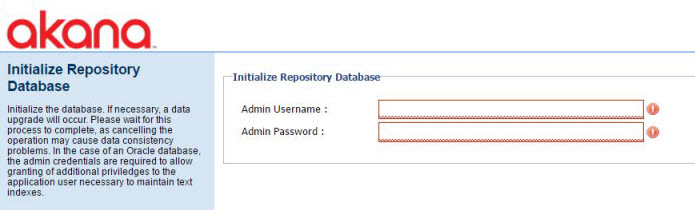
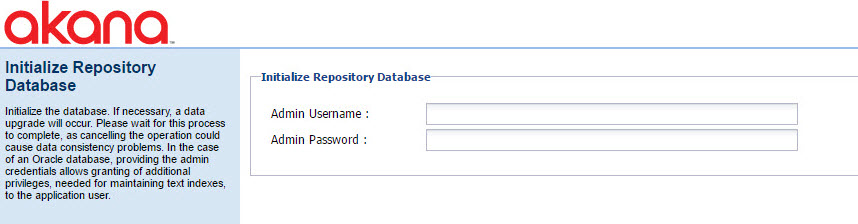
INFRA-2403

Changed region(s): [[0.0, 0.0, 1.0, 1.0], [0.4835, 0.4571, 0.9669, 0.6857]]

diff --git a/lm/install/install_lm_v80x.htm b/lm/install/install_lm_v80x.htm
@@ -1,16 +1,17 @@
 ---
 layout: page
-title: Installing Lifecycle Manager 8.0
-description: Learn how to install Lifecycle Manager 8.0.
+title: Installing Lifecycle Manager 8.0.x
+description: Learn how to install Lifecycle Manager 8.0.x.
 product: lm
 category: gs
 weight: 10
 type: page
 nav-title: Lifecycle Manager Installation
 ---
-<h2><a name="top"></a>Installing Lifecycle Manager 8.0</h2>
-<p>This document provides reference information and examples relating to installation and configuration of Lifecycle Manager version 8.0 with the Akana Platform.</p>
+<h2><a name="top"></a>Installing Lifecycle Manager 8.0.x</h2>
+<p>This document provides reference information and examples relating to installation and configuration of Lifecycle Manager version 8.0.x with the Akana Platform.</p>
 <p><strong>Note</strong>: This document provides the steps you need for a fresh install. If you're upgrading from a previous version of Lifecycle Manager, you'll need to refer to the upgrade documentation on the Akana Support site: <a href="https://library.akana.com/display/MAIN/Lifecycle+Manager" title="Akana Support site" target="_blank">https://library.akana.com/display/MAIN/Lifecycle+Manager</a>.</p>
+
 <h5 class="stamp">Required Akana Platform version: 8.2.3</h5>
 
 
@@ -30,9 +31,9 @@ nav-title: Lifecycle Manager Installation
   <li><a href="#03_lm_container">Step 3: Run Configurator to configure Lifecycle Manager container</a></li>
   <li><a href="#04_start_lm_instance">Step 4: Start the Lifecycle Manager instance</a></li>
   <li><a href="#05_lm_install">Step 5: Install and configure the Akana Lifecycle Manager Application feature</a></li>
-  <li><a href="#07_extract_client_zips">Step 6: Extract javaclients.zip file and specify the URL in the configuration settings</a></li>
-  <li><a href="#08_lm_config">Step 7: Update the Lifecycle Manager configuration settings</a></li>
-  <li><a href="#09_lm_create_library">Step 8: Create a Lifecycle Manager Library</a></li>
+  <li><a href="#06_extract_client_zips">Step 6: Extract javaclients.zip file and specify the URL in the configuration settings</a></li>
+  <li><a href="#07_lm_config">Step 7: Update the Lifecycle Manager configuration settings</a></li>
+  <li><a href="#08_lm_create_library">Step 8: Create a Lifecycle Manager Library</a></li>
 </ol>
 
 
@@ -42,10 +43,11 @@ nav-title: Lifecycle Manager Installation
 
 
 <ol class="table_of_contents">
+  <li><a href="#lm_databases_supported">Supported databases</a></li>
+  <li><a href="#database_drivers">Database drivers</a></li>
   <li><a href="#properties_file_creating">Creating the LM properties file for silent install</a></li>
   <li><a href="#creating_container_silent">Creating a container using silent install</a></li>
   <li><a href="#create_asset_library">Creating an asset library</a></li>
-  <li><a href="#database_drivers">Database drivers</a></li>
   <li><a href="#related_topics">Related Topics</a></li>
 </ol>
 
@@ -61,26 +63,7 @@ nav-title: Lifecycle Manager Installation
 <a name="lm_install_overview"></a><h3>Overview</h3>
 <p>You can install Lifecycle Manager in a single OSGi container.</p>
 <p>You'll need to first install the Akana Platform, which provides the underlying infrastructure for Lifecycle Manager, and then install Lifecycle Manager itself.</p>
-
-<h5>Supported databases:</h5>
-<ul>
-  <li><strong>Microsoft SQL Server 2012 and 2014</strong></li>
-  <li><strong>Oracle 11g, 12c</strong>&#8212;If you are using Oracle, your installation must include the following required features and details:
-    <ul>
-      <li>XMLDB and TEXT</li>
-      <li>LEXER, STOPLIST and WORDLIST for the default language installed (for more information, refer to the <a href="{{ site.baseurl }}/lm/SysAdmin-OSGi.html" title="Lifecycle Manager System Administrator Guide" target="_blank">Lifecycle Manager System Administrator Guide</a>)</li>
-      <li>CTX grants (for more information, refer to the <a href="{{ site.baseurl }}/lm/SysAdmin-OSGi.html" title="Lifecycle Manager System Administrator Guide" target="_blank">Lifecycle Manager System Administrator Guide</a>)</li>
-    </ul>
-  <p>In addition, depending on the Oracle version and Patch Set Update (PSU), there might be additional interim patch requirements:</p>
-    <ul>
-<li><strong>Oracle 11.2.0.3.x</strong> requires the following patches: <strong>16191663</strong> and <strong>18615607</strong>.</li>
-<li><strong>Oracle 11.2.0.4.x</strong> requires this patch: <strong>18615607</strong>.</li>
-<li><strong>Oracle 12c</strong> requires PSU <strong>12.1.0.2.0</strong> or greater.
-<p>If you are using Oracle, AL32UTF8 with BYTE length semantics is recommended.</p></li>
-      </ul>
-  </li>
-</ul>
-<p><strong>Note</strong>: Depending on the type and version of the database you're using, you might also need to place the database driver in the correct location as part of <a href="#05_lm_install">Step 5: Install and configure the Akana Lifecycle Manager Application Feature</a>. See <a href="#database_drivers">Database drivers</a>.</p>
+<p>For database version information, see <a href="#lm_databases_supported">Supported databases</a>.</p>
 <p><a href="#top">Back to top</a></p>
 
 
@@ -130,9 +113,9 @@ nav-title: Lifecycle Manager Installation
 <ol>
   <li>Log in to the Akana Library (<a href="https://library.akana.com/display/MAIN/Akana+Library" target="_blank">https://library.akana.com/display/MAIN/Akana+Library</a>.</li>
   <li>On the left, click <strong>Downloads</strong> &gt; <strong>Lifecycle Manager</strong>.</li>
-  <li>On the right, click <strong>LM 8.0</strong>.</li>
+  <li>On the right, click <strong>LM 8.0</strong> or, if there's an updated version, click through to the latest 8.0.x version available.</li>
   <li>Click <strong>Server</strong>.</li>
-  <li>Download the <strong>lifecyclemanager_8.0.0.00339.zip</strong> file.</li>
+  <li>Download the latest ZIP file. The file name will be in the pattern <strong>lifecyclemanager_8.0.x.x.zip</strong>; for example, <strong>lifecyclemanager_8.0.0.00339.zip</strong>.</li>
 </ol>
 
 <a name="proc_download_java_clients"></a><h5>To download the Java Clients file</h5>
@@ -144,7 +127,6 @@ nav-title: Lifecycle Manager Installation
   <li>Click <strong>clients</strong>.</li>
   <li>Download the <strong>javaclients_8.0.0.00339.zip</strong> file.</li>
 </ol>
-
 <p><a href="#top">Back to top</a></p>
 
 
@@ -156,7 +138,7 @@ nav-title: Lifecycle Manager Installation
   <li><a href="#install_lm">Lifecycle Manager</a></li>
 </ol>
 <p><strong>Note</strong>: The sequence is very important.</p>
-<p>The javaclients file is unzipped and installed later, in <a href="#07_extract_client_zips">Step 6</a>.</p>
+<p>The javaclients file is unzipped and installed later, in <a href="#06_extract_client_zips">Step 6</a>.</p>
 
 
 <a name="install_platform"></a><h5>To install the Akana Platform files</h5>
@@ -169,7 +151,7 @@ nav-title: Lifecycle Manager Installation
 <p>Extract the Lifecycle Manager ZIP file to your installation folder.</p>
 <p>After installation, the directory structure will look similar to the following:</p>
 <p><img src="images/lm_install_02_01_install_folders.png" alt="Installation folder structure" /></p>
-<p>For information about the folders and folder contents, see <a href="{{ site.baseurl }}/sp/platform_install/installing_akana_api_platform_v82.htm#installation_folder_structure">Installation folder structure</a>.</p>
+<p>For information about the folders and folder contents, see <a href="http://docs.akana.com/sp/platform_install/installing_akana_api_platform_v82.htm#installation_folder_structure">Installation folder structure</a>.</p>
 <p><a href="#top">Back to top</a></p>
 
 
@@ -179,7 +161,7 @@ nav-title: Lifecycle Manager Installation
 <p>You can configure a Lifecycle Manager container using either GUI or silent install options.</p>
 <p><strong>GUI installation</strong>: follow this step in the Akana API Platform install instructions:</p>
 <ul>
-  <li><a href="{{ site.baseurl }}/sp/platform_install/installing_akana_api_platform_v82.htm#run_configurator_pm">Step 3: Run Configurator to create the first container</a> (separate file)</li>
+  <li><a href="http://docs.akana.com/sp/platform_install/installing_akana_api_platform_v82.htm#run_configurator_pm">Step 3: Run Configurator to create the first container</a> (separate file)</li>
   </ul>
 <p><strong>Silent mode</strong>: follow these steps (later in this document):</p>
 <ul>
@@ -193,7 +175,6 @@ nav-title: Lifecycle Manager Installation
 
 <a name="04_start_lm_instance"></a><h3>Step 4: Start the Lifecycle Manager instance</h3>
 <p>The next step is to start the instance.</p>
-<!--<p>{<span class="apidoc_red">Note: add info here re running as a Windows service, when it works. Applicable location, wherever that is, anyway, for including info re registering the container as a Windows service. 1/16/17 it doesn't currently work so not adding this for the moment.</span>}</p>-->
 <h5>To start the instance</h5>
 <ol>
   <li>Go to the /bin folder for your Lifecycle Manager container. For example:
@@ -216,7 +197,7 @@ nav-title: Lifecycle Manager Installation
 <p><strong>Note</strong>: Before configuring the database, make sure you have the applicable database driver in place. See <a href="#database_drivers">Database drivers</a>.</p>
 
 <h5>To install the Lifecycle Manager feature on a container</h5>
-<p><strong>Note</strong>: This procedure is along the lines of the standard Akana API Platform instructions, <a href="{{ site.baseurl }}/sp/platform_install/installing_akana_api_platform_v82.htm#install_pm">Step 5: Install Policy Manager features on the container</a>, with differences for Lifecycle Manager.</p>
+<p><strong>Note</strong>: This procedure is along the lines of the standard Akana API Platform instructions, <a href="http://docs.akana.com/sp/platform_install/installing_akana_api_platform_v82.htm#install_pm">Step 5: Install Policy Manager features on the container</a>, with differences for Lifecycle Manager.</p>
 <ol>
   <li>Log in to the <strong>Akana Administration Console</strong>, using the Admin username and password you specified in <a href="#03_lm_container">Step 3: Run Configurator to configure Lifecycle Manager container</a>. The URL is composed like this: <strong>{protocol}://{hostname}:{port}:/admin</strong>.
     <p>For example: <strong>http://lm.acmepaymentscorp.com:9900/admin</strong></p></li>
@@ -240,7 +221,7 @@ nav-title: Lifecycle Manager Installation
 
 <a name="proc_lm_configure"></a><h5>To configure the Lifecycle Manager feature on a container</h5>
 
-<p><strong>Note</strong>: This procedure is along the lines of the standard Akana API Platform instructions, <a href="{{ site.baseurl }}/sp/platform_install/installing_akana_api_platform_v82.htm#configure_pm">Step 7: Configure container features</a>, with differences for Lifecycle Manager.</p>
+<p><strong>Note</strong>: This procedure is along the lines of the standard Akana API Platform instructions, <a href="http://docs.akana.com/sp/platform_install/installing_akana_api_platform_v82.htm#configure_pm">Step 7: Configure container features</a>, with differences for Lifecycle Manager.</p>
 <ol>
   <li>At the <strong>Configure Database Options Wizard</strong>, specify your database and other values. Since this is the first container, select <strong>Create new database</strong> (for subsequent containers, you'll use the same database, so you'd select <strong>Use existing database</strong>). An example is shown below.
     <p><img src="images/lm_install_05_01_database_options.jpg" alt="Specify Database Options wizard" /></p>
@@ -253,11 +234,13 @@ nav-title: Lifecycle Manager Installation
     </li>
   <li>At the <strong>Schema Management Successful</strong> summary page, close the wizard.</li>
   <li>Select the next configuration action, <strong>Initialize Repository Database</strong>. The <strong>Initialize Repository Database</strong> wizard appears, as shown below.
-  <p><img src="images/lm_install_05_03_initialize_repository_database.jpg" width="695" height="210" alt="Initialize Repository Databse" /></p>
+    <p><img src="images/lm_install_05_03_initialize_repository_database.jpg" alt="Initialize Repository Databse" /></p>
+    <p><strong>Note</strong>: If you're not using an Oracle database, the admin username and password fields are not on this page. Click <strong>Finish</strong> to complete the initialization task.</p>
   </li>
-  <li>Follow the on-screen instructions, making sure you provide the correct administrator credentials for the target database that you set up in the database configuration step earlier (see <a href="#proc_lm_configure">To configure the Lifecycle Manager feature on a container</a>, Step 1).</li>
+  <li><a name="oracle_admin_cred"></a><strong>Oracle database only</strong>: Follow the on-screen instructions. Entering the administrator credentials is optional, but if you do enter them, make sure you enter the correct credentials for the target database that you set up in the database configuration step earlier (see <a href="#proc_lm_configure">To configure the Lifecycle Manager feature on a container</a>, Step 1).
+    <p><strong>Note</strong>: This step is optional, but if you're using an Oracle database and don't set up administrator credentials, the DBA will need to perform additional grants (see <a href="#oracle_ctx_grants">Supported Database section, Oracle, CTX Grants</a>) before creating the library (see <a href="#08_lm_create_library">Step 8: Create a Lifecycle Manager Library</a>).</p></li>
   <li>At the summary, as shown below, click <strong>Finish</strong>.
-  <p><img src="images/lm_install_05_04_initialize_repository_summary.jpg" alt="Initialize repository" /></p></li>
+    <p><img src="images/lm_install_05_04_initialize_repository_summary.jpg" alt="Initialize repository" /></p></li>
 </ol>
 <p>That completes the basic installation and configuration of Lifecycle Manager.</p>
 <p><a name="note_mssql_01"></a><strong>Note: MSSQL database only</strong>:</p>
@@ -270,7 +253,7 @@ ALTER DATABASE {db.instance.name}
 
 
 
-<a name="07_extract_client_zips"></a><h3>Step 6: Extract javaclients.zip file and specify the URL in the configuration settings</h3>
+<a name="06_extract_client_zips"></a><h3>Step 6: Extract javaclients.zip file and specify the URL in the configuration settings</h3>
 <p>To make the Java clients available on the <strong>Download Center</strong> pages for all Lifecycle Manager libraries on the server, there are two steps:</p>
 <ol>
   <li>Extract the<strong> javaclients.zip</strong> file to a common directory of your choice, on an HTTP server of your choice that will be accessible to the platform.</li>
@@ -292,7 +275,7 @@ ALTER DATABASE {db.instance.name}
 
 
 
-<a name="08_lm_config"></a><h3>Step 7: Update the Lifecycle Manager configuration settings</h3>
+<a name="07_lm_config"></a><h3>Step 7: Update the Lifecycle Manager configuration settings</h3>
 <p>When the Lifecycle Manager feature is successfully installed, the Lifecycle Manager super-user can configure specific settings, such as hostname and admin users, for your implementation.</p>
 <p>There are two steps:</p>
 <ol>
@@ -328,7 +311,7 @@ ALTER DATABASE {db.instance.name}
     </li>
   <li>In the <strong>General Settings</strong> page, add or change the following settings:
     <ul>
-      <li>Make sure the <strong>Use SSL</strong> checkbox is cleared. You'll complete separate steps later to manually configure the instance with SSL properties. For information on SSL configuration, refer to the <a href="{{ site.baseurl }}/lm/SysAdmin-OSGi.html" title="Lifecycle Manager System Administrator Guide" target="_blank">Lifecycle Manager System Administrator Guide</a>.</li>
+      <li>Make sure the <strong>Use SSL</strong> checkbox is cleared. You'll complete separate steps later to manually configure the instance with SSL properties. For information on SSL configuration, refer to the <a href="http://docs.akana.com/lm/SysAdmin-OSGi.html" title="Lifecycle Manager System Administrator Guide" target="_blank">Lifecycle Manager System Administrator Guide</a>.</li>
       <li>Specify <strong>Host</strong> (for example: lxc1-pm8x-23.local.acmepaymentscorp.com).</li>
       <li>Specify <strong>Port</strong> (for example, 9900).</li>
       <li><strong>Administration Users</strong>: A list of LDAP User IDs, separated by semi-colons. These are the users that have permission to access the Lifecycle Manager Admin Console (not the Akana Platform Admin Console). Specify one or more admin users, such as Technical Support personnel.</li>
@@ -380,7 +363,7 @@ ALTER DATABASE {db.instance.name}
 <p>As noted above (see <a href="#note_super_user">note</a>), once Admin users are set up and functional, for security reasons it's best to disable the super-user password setting.</p>
 
 <a name="ldap_group_membership"></a><h5>Establishing group membership in LDAP</h5>
-<p><strong>Note</strong>: for more information about Group and Role support, refer to <a href="{{ site.baseurl }}/lm/SysAdmin-OSGi.html#ldapgrouproles" title="Setting up Group and Role support in LDAP" target="_blank">Setting up Group and Role support in LDAP</a> (Lifecycle Manager System Administrator Guide).</p>
+<p><strong>Note</strong>: for more information about Group and Role support, refer to <a href="http://docs.akana.com/lm/SysAdmin-OSGi.html#ldapgrouproles" title="Setting up Group and Role support in LDAP" target="_blank">Setting up Group and Role support in LDAP</a> (Lifecycle Manager System Administrator Guide).</p>
 <p>There are two ways of establishing group membership in LDAP:</p>
 <ol>
   <li>As a <strong>Group</strong> object that lists all the members of that group. The example below shows an ldif of a Project Manager group. The name of the group is in the CN attribute, and the members are listed in the uniqueMember attributes (AD may use a different attribute for members; you'll need to verify with the customer LDAP admin):
@@ -413,8 +396,9 @@ Q==</pre></li>
 
 
 
-<a name="09_lm_create_library"></a><h3>Step 8: Create a Lifecycle Manager Library</h3>
+<a name="08_lm_create_library"></a><h3>Step 8: Create a Lifecycle Manager Library</h3>
 <p>Now it's time to test the LM install by creating a new Lifecycle Manager library.</p>
+<p><strong>Note</strong>: If you're using an Oracle database and didn't provide the Administrator credentials in <a href="#oracle_admin_cred">To configure the Lifecycle Manager feature on a container, Step 5</a>, the DBA must provide the required grants before you create the library. See <a href="#oracle_ctx_grants">Supported Database section, Oracle, CTX Grants</a>.</p>
 <h5>To create a new Lifecycle Manager library</h5>
 <ol>
   <li>Log in to the Akana Administration Console for Lifecycle Manager, using the previously designated installation administrator account, such as Technical Support. For example: <strong>http://www.acmepaymentscorp.com:9900/lm/admin/mainMenu.do</strong>.</li>
@@ -441,6 +425,54 @@ Q==</pre></li>
 
 <a name="h_install_tasks_reference_lm"></a><h3>LM Installation Tasks/Reference:</h3>
 
+
+
+
+<a name="lm_databases_supported"></a><h3>Supported databases</h3>
+<p>Lifecycle Manager version 8.0.x supports the following databases:</p>
+<ul>
+  <li><strong>Microsoft SQL Server 2012 and 2014</strong></li>
+  <li><strong>Oracle 11g, 12c</strong>&#8212;If you're using Oracle, your installation must include the following required features and details:
+    <ul>
+      <li>XMLDB and TEXT</li>
+      <li>LEXER, STOPLIST and WORDLIST for the default language installed (for more information, refer to the <a href="http://docs.akana.com/lm/SysAdmin-OSGi.html" title="Lifecycle Manager System Administrator Guide" target="_blank">Lifecycle Manager System Administrator Guide</a>)</li>
+      <li><a name="oracle_ctx_grants"></a>CTX grants (for more information, refer to the <a href="http://docs.akana.com/lm/SysAdmin-OSGi.html" title="Lifecycle Manager System Administrator Guide" target="_blank">Lifecycle Manager System Administrator Guide</a>)</li>
+    </ul>
+  <p>In addition, depending on the Oracle version and Patch Set Update (PSU), there might be additional interim patch requirements:</p>
+    <ul>
+<li><strong>Oracle 11.2.0.3.x</strong> requires the following patches: <strong>16191663</strong> and <strong>18615607</strong>.</li>
+<li><strong>Oracle 11.2.0.4.x</strong> requires this patch: <strong>18615607</strong>.</li>
+<li><strong>Oracle 12c</strong> requires PSU <strong>12.1.0.2.0</strong> or greater.
+<p>If you're using Oracle, AL32UTF8 with BYTE length semantics is recommended.</p></li>
+      </ul>
+  </li>
+</ul>
+<p><strong>Note</strong>: Depending on the type and version of the database you're using, you might also need to place the database driver in the correct location as part of <a href="#05_lm_install">Step 5: Install and configure the Akana Lifecycle Manager Application Feature</a>. See <a href="#database_drivers">Database drivers</a>.</p>
+<p><a href="#top">Back to top</a></p>
+
+
+
+<a name="database_drivers"></a><h3>Database drivers</h3>
+<p>Depending on which database server you're using, you might need to install a database driver before <span class="apidoc_p_subsequent">running the <strong>Configure Database Options</strong> Wizard</span>.</p>
+<p>If you need to install a database driver, place it in this location:</p>
+<ul>
+  <li> <strong>{installation}/instances/{containername}/deploy</strong> folder</li>
+</ul>
+<p>For example, for Oracle 12c, it might be:</p>
+<ul>
+  <li><strong>/akana/lm80/instances/lm/deploy/ojdbc7.jar</strong> (Downloadable from: <a href="http://www.oracle.com/technetwork/database/features/jdbc/jdbc-drivers-12c-download-1958347.html" title="download location for Oracle database driver" target="_blank">http://www.oracle.com/technetwork/database/features/jdbc/jdbc-drivers-12c-download-1958347.html</a>; requires accepting the agreement and logging in.)</li>
+</ul>
+<p>Database options, with driver information:</p>
+<ul>
+  <li><strong>Oracle 11g</strong>: install the appropriate driver; for example, <strong>Ojdbc6.jar</strong>, downloadable from <a href="http://www.java2s.com/Code/Jar/o/Downloadojdbc6jar.htm" title="download location for Oracle database driver" target="_blank">http://www.java2s.com/Code/Jar/o/Downloadojdbc6jar.htm</a>.
+<p><strong>Note</strong>: Oracle 11.2.0.x installations below the 11.2.0.4 PSU require the Oracle 11.1 JDBC (11.1.0.7) driver. If your Oracle installation is at or above the 11.2.0.4 PSU, you can use the JDBC driver from that specific version of Oracle.</p>
+  </li>
+  <li><strong>Oracle 12c</strong>: install the appropriate driver (typically ojdbc7.jar) that aligns with your Oracle 12c instance version.
+  <p>Also, for Oracle 12c, see <a href="#note_oracle_12c">note about database permissions needed</a>.</p></li>
+  <li><strong>Microsoft SQL Server</strong>: no database driver installation is required. The Akana Platform provides the required JTDS support for connecting to MS SQL.
+  <p><strong>Note</strong>: If you're using MSSQL, see additional information <a href="#note_mssql_01">to set read committed snapshot and enable snapshot isolation mode</a>.</p></li>
+</ul>
+<p><a href="#top">back to top</a></p>
 
 
 
@@ -487,7 +519,7 @@ default.port=9900</pre>
 <p>To create an asset library, follow the steps below.</p>
 <h5>To create an asset library</h5>
 <ol>
-  <li>Open one of the following URLs in a browser, depending on your setup. If you are using native LDAP mode and have not bootstrapped the setup according to the above instructions, use the super-user login page and the configured password {superuser.password}. Otherwise, use the installation administration login page and specify a valid LDAP user configured in {admin.users} with a valid password. URLs:
+  <li>Open one of the following URLs in a browser, depending on your setup. If you're using native LDAP mode and have not bootstrapped the setup according to the above instructions, use the super-user login page and the configured password {superuser.password}. Otherwise, use the installation administration login page and specify a valid LDAP user configured in {admin.users} with a valid password. URLs:
     <ul>
       <li>http://{web.server.url.host}/lm/admin (installation administration login page)</li>
       <li>http://{web.server.url.host}/lm/application/access/suLogin.do (super-user login page)</li>
@@ -518,7 +550,7 @@ default.port=9900</pre>
     </tr>
     <tr class="t1row">
       <td>Description</td>
-      <td>A brief description of the Asset Library. </td>
+      <td>A brief description of the Asset Library.</td>
     </tr>
     <tr class="t2row">
       <td>Sender Email</td>
@@ -543,32 +575,7 @@ default.port=9900</pre>
     </tr>
   </tbody>
 </table>
-<p>&nbsp;</p>
 <p><a href="#top">Back to top</a></p>
-
-
-
-<a name="database_drivers"></a><h3>Database drivers</h3>
-<p>Depending on which database server you're using, you might need to install a database driver before <span class="apidoc_p_subsequent">running the <strong>Configure Database Options</strong> Wizard</span>.</p>
-<p>If you need to install a database driver, place it in this location:</p>
-<ul>
-  <li> <strong>{installation}/instances/{containername}/deploy</strong> folder</li>
-</ul>
-<p>For example, for Oracle 12c, it might be:</p>
-<ul>
-  <li><strong>/akana/lm80/instances/lm/deploy/ojdbc7.jar</strong> (Downloadable from: <a href="http://www.oracle.com/technetwork/database/features/jdbc/jdbc-drivers-12c-download-1958347.html" title="download location for Oracle database driver" target="_blank">http://www.oracle.com/technetwork/database/features/jdbc/jdbc-drivers-12c-download-1958347.html</a>; requires accepting the agreement and logging in.)</li>
-</ul>
-<p>Database options, with driver information:</p>
-<ul>
-  <li><strong>Oracle 11g</strong>: install the appropriate driver; for example, <strong>Ojdbc6.jar</strong>, downloadable from <a href="http://www.java2s.com/Code/Jar/o/Downloadojdbc6jar.htm" title="download location for Oracle database driver" target="_blank">http://www.java2s.com/Code/Jar/o/Downloadojdbc6jar.htm</a>.
-<p><strong>Note</strong>: Oracle 11.2.0.x installations below the 11.2.0.4 PSU require the Oracle 11.1 JDBC (11.1.0.7) driver. If your Oracle installation is at or above the 11.2.0.4 PSU, you can use the JDBC driver from that specific version of Oracle.</p>
-  </li>
-  <li><strong>Oracle 12c</strong>: install the appropriate driver (typically ojdbc7.jar) that aligns with your Oracle 12c instance version.
-  <p>Also, for Oracle 12c, see <a href="#note_oracle_12c">note about database permissions needed</a>.</p></li>
-  <li><strong>Microsoft SQL Server</strong>: no database driver installation is required. The Akana Platform provides the required JTDS support for connecting to MS SQL.
-  <p><strong>Note</strong>: If you're using MSSQL, see additional information <a href="#note_mssql_01">to set read committed snapshot and enable snapshot isolation mode</a>.</p></li>
-</ul>
-<p><a href="#top">back to top</a></p>
 
 
 
@@ -581,13 +588,19 @@ default.port=9900</pre>
   <tr style="vertical-align:top;">
     <td width="300">
       <ul>
-        <li><a href="{{ site.baseurl }}/sp/platform_install/installing_akana_api_platform_v82.htm">Installing the Akana API Platform 8.2x</a></li>
+        <li><a href="http://docs.akana.com/sp/platform_install/installing_akana_api_platform_v82.htm">Installing the Akana API Platform 8.2x</a></li>
       </ul>
     </td>
     <td width="400">
       <ul>
-        <li><a href="{{ site.baseurl }}/sp/platform_install/installing_akana_platform.htm">Installing Akana Platform 8.x</a></li>
+        <li><a href="http://docs.akana.com/sp/platform_install/installing_akana_platform.htm">Installing Akana Platform 8.x</a></li>
       </ul>
     </td>
   </tr>
 </table>
+
+
+
+</div>
+</body>
+</html>
